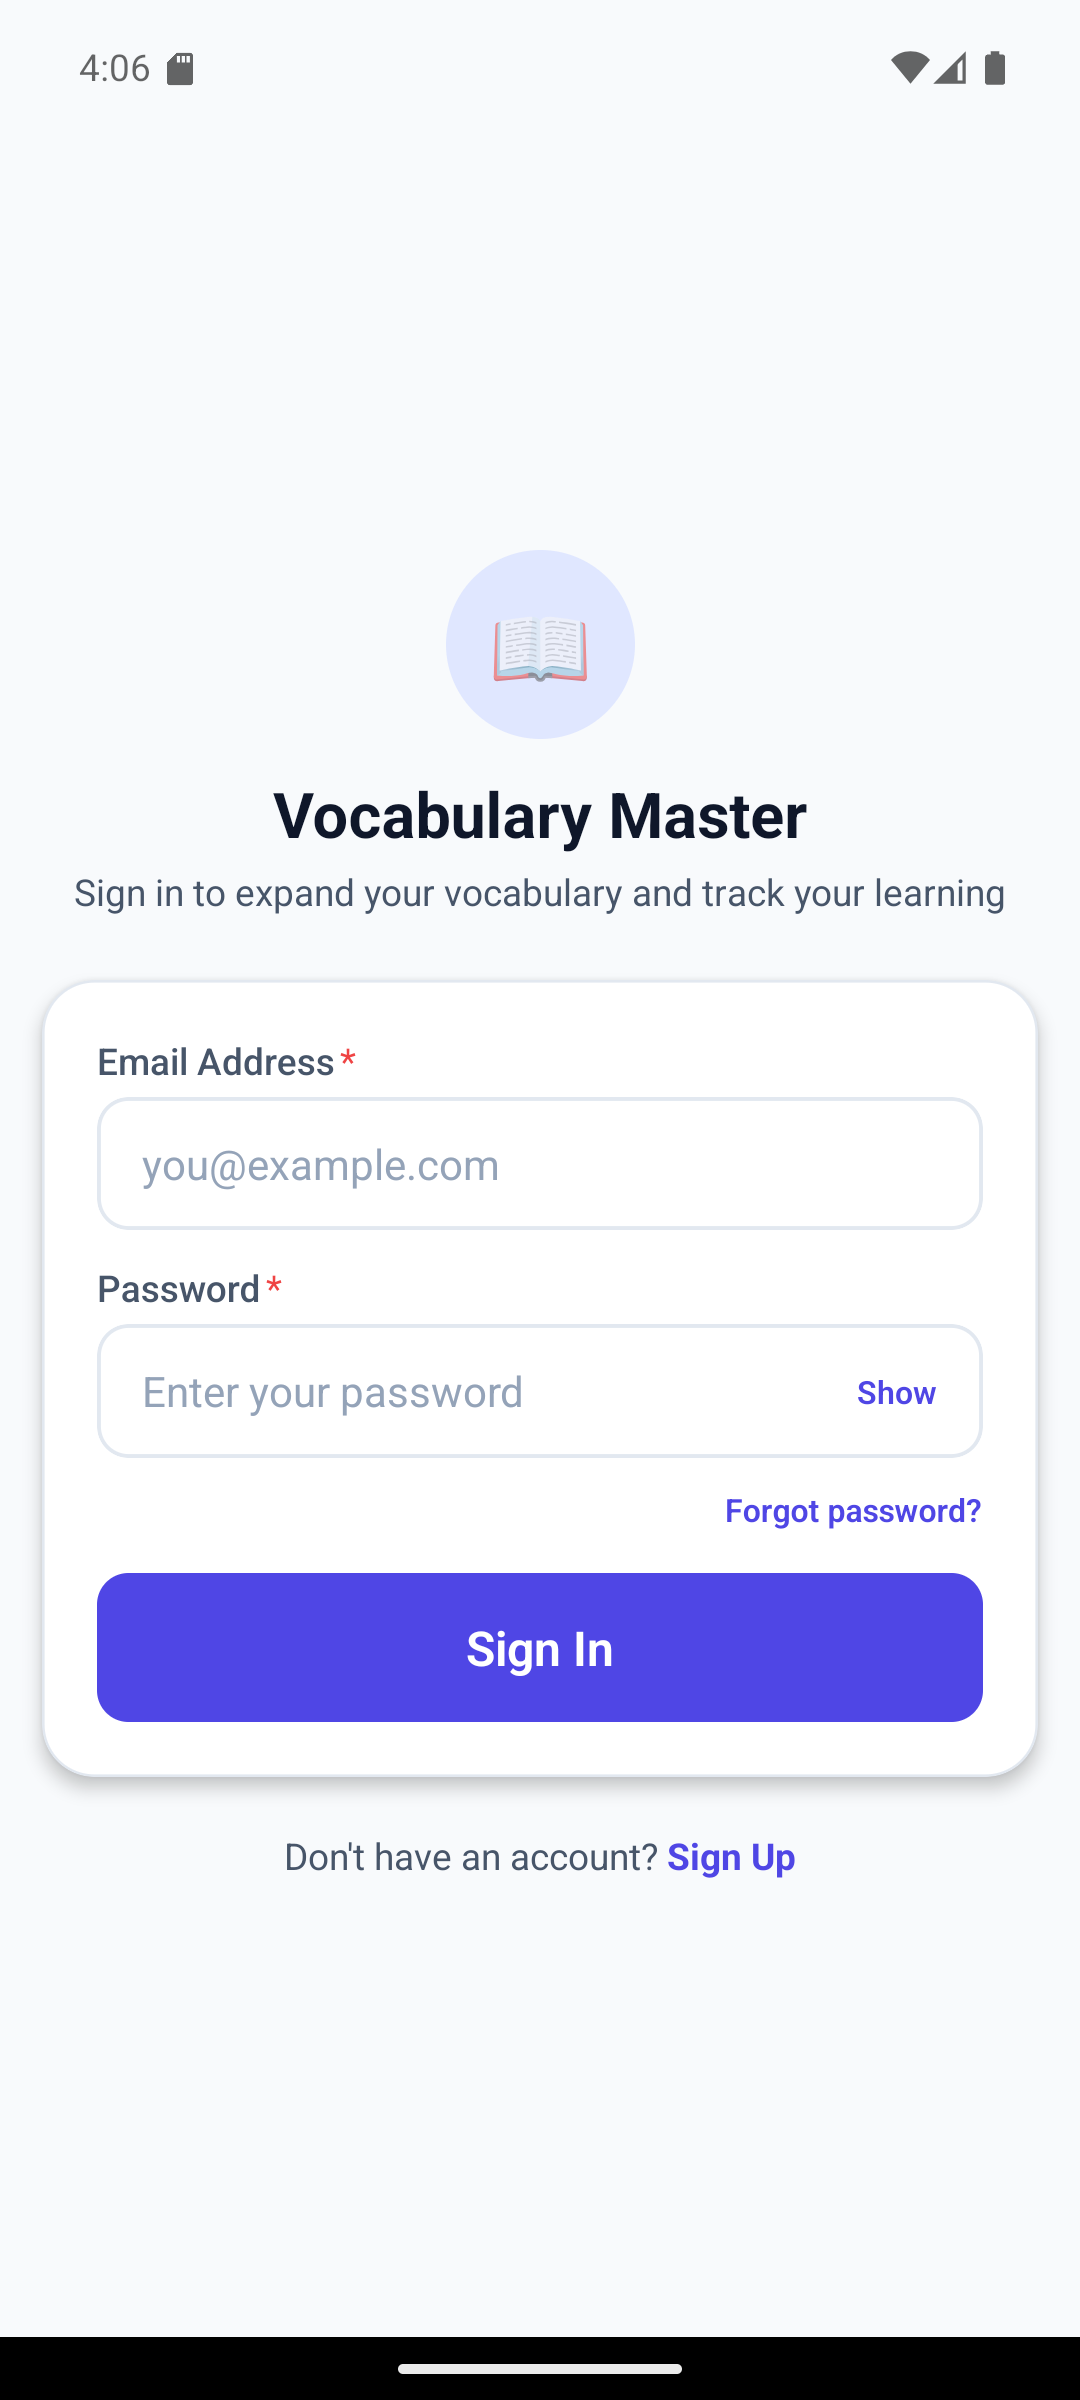
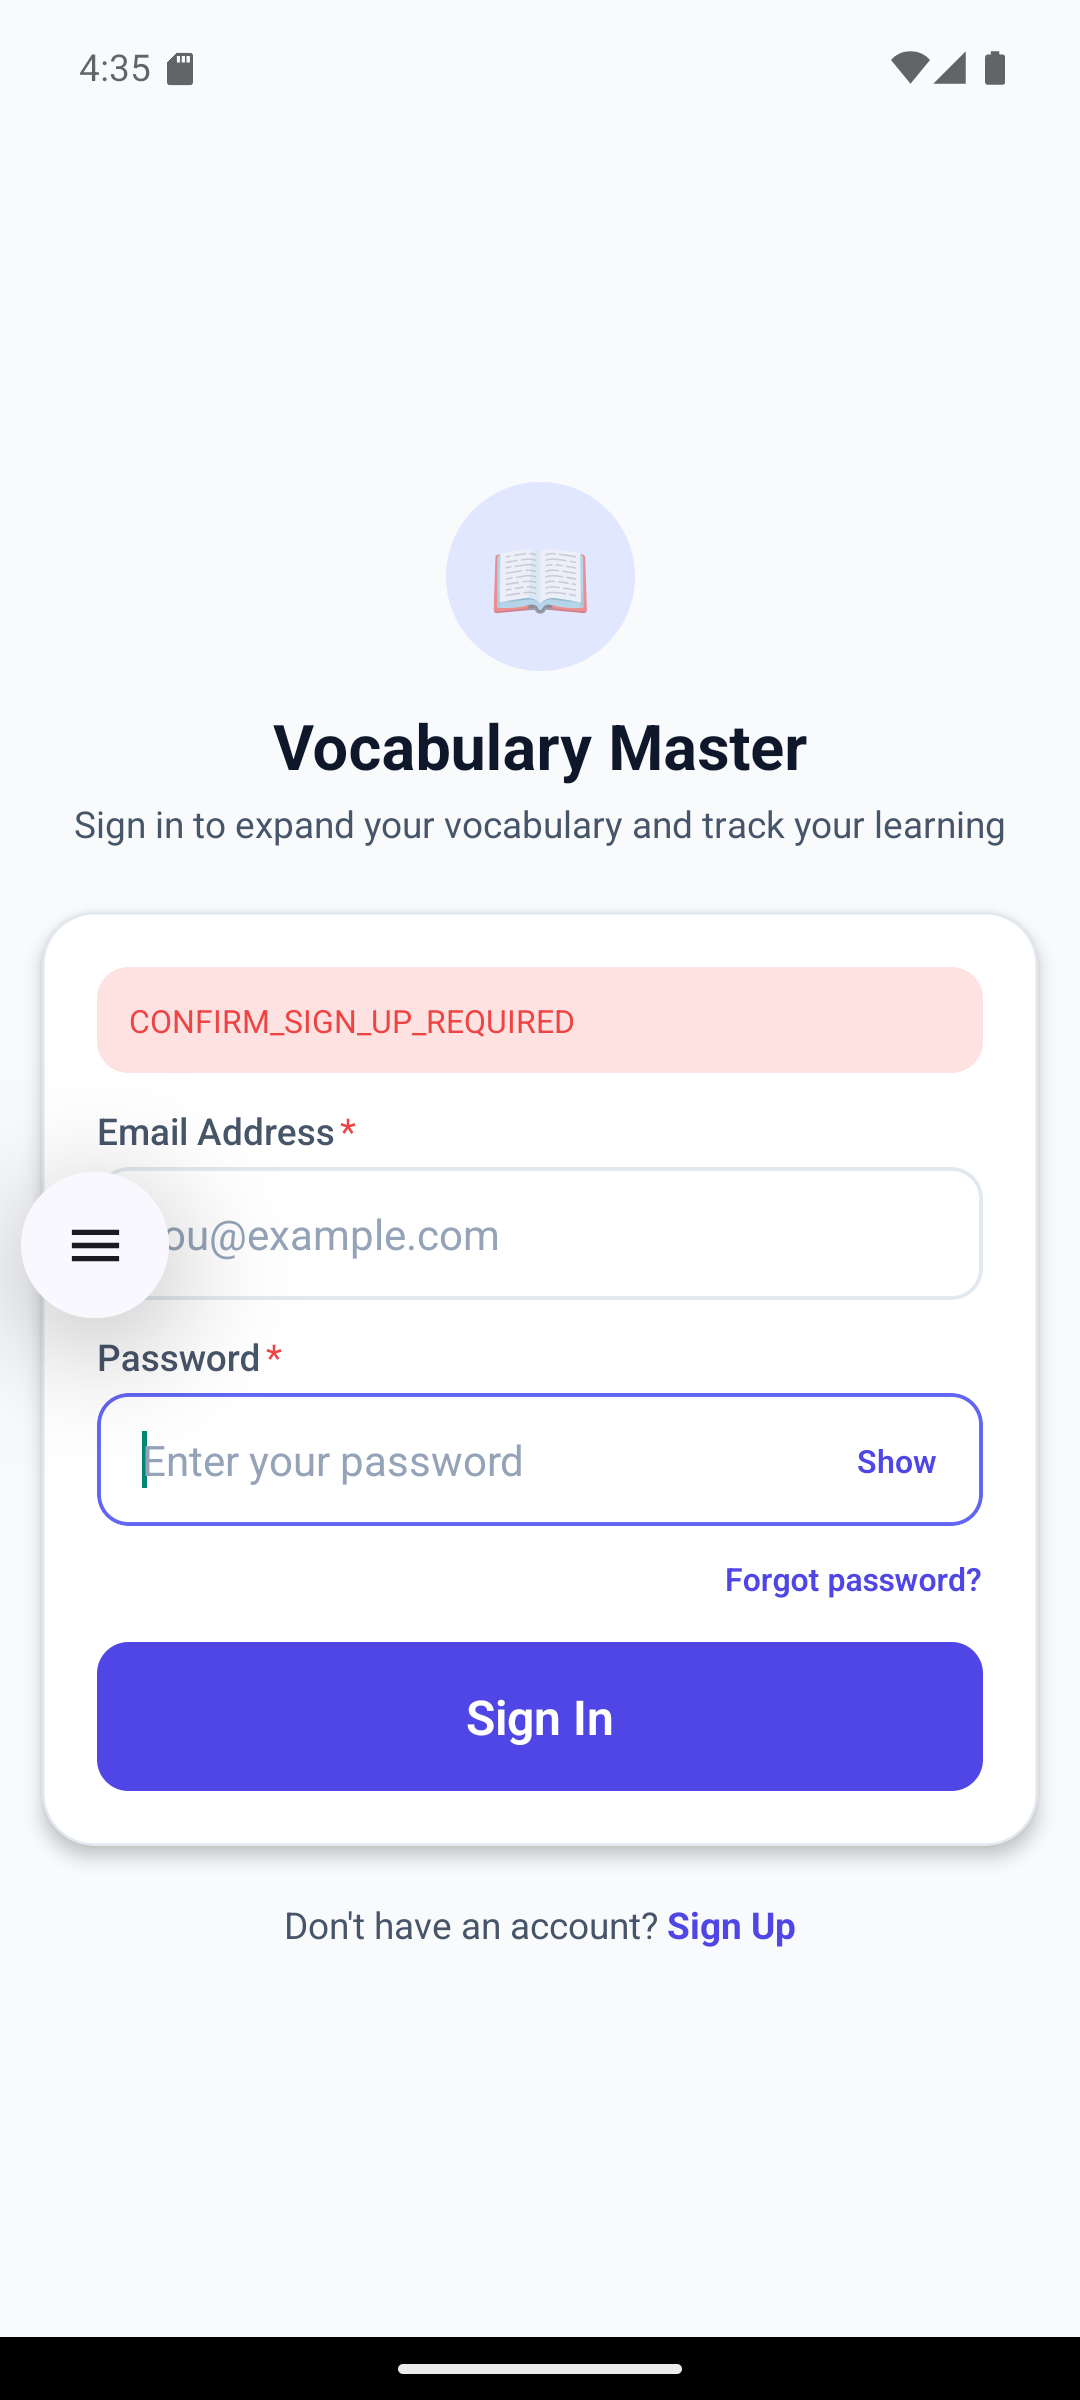
Direct navigation to email confirmation on login with unconfirmed account

Changed region(s): [[0.0306, 0.2188, 0.9778, 0.8125]]

diff --git a/src/screens/auth/LoginScreen.tsx b/src/screens/auth/LoginScreen.tsx
@@ -136,23 +136,15 @@ export const LoginScreen: React.FC<Props> = ({ navigation }) => {
         err?.message?.includes('confirmation') ||
         err?.message?.includes('confirmed')
       ) {
-        Alert.alert(
-          'Verification Required',
-          'Your account requires email verification. Please enter the verification code sent to your email.',
-          [
-            {
-              text: 'Enter Code',
-              onPress: () => navigation.navigate('ConfirmSignUp', { email: email.trim() }),
-            },
-            {
-              text: 'Cancel',
-              style: 'cancel',
-            },
-          ]
-        );
+        navigation.navigate('ConfirmSignUp', { email: email.trim() });
       }
     }
   };
+
+  const isUnconfirmedError =
+    error === 'CONFIRM_SIGN_UP_REQUIRED' ||
+    error?.includes('confirmation') ||
+    error?.includes('confirmed');
 
   return (
     <ScreenContainer scrollable>
@@ -168,7 +160,17 @@ export const LoginScreen: React.FC<Props> = ({ navigation }) => {
         <FormCard>
           {error && (
             <GeneralErrorBox>
-              <GeneralErrorText>{error}</GeneralErrorText>
+              {isUnconfirmedError ? (
+                <TouchableOpacity
+                  onPress={() => navigation.navigate('ConfirmSignUp', { email: email.trim() })}
+                >
+                  <GeneralErrorText style={{ fontWeight: '600' }}>
+                    Email verification required. Tap here to enter your 6-digit verification code.
+                  </GeneralErrorText>
+                </TouchableOpacity>
+              ) : (
+                <GeneralErrorText>{error}</GeneralErrorText>
+              )}
             </GeneralErrorBox>
           )}
 
